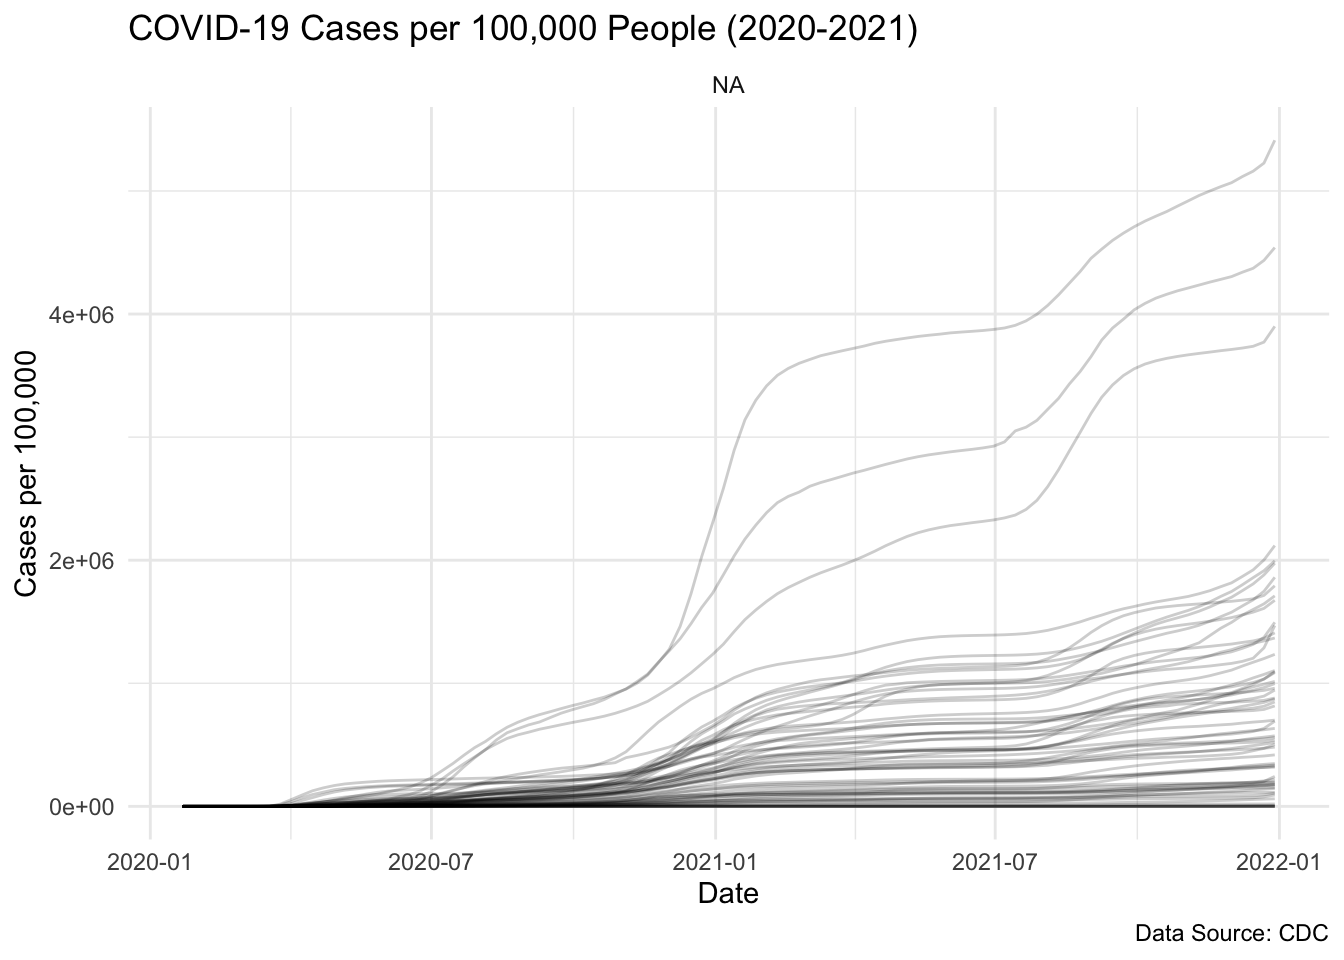
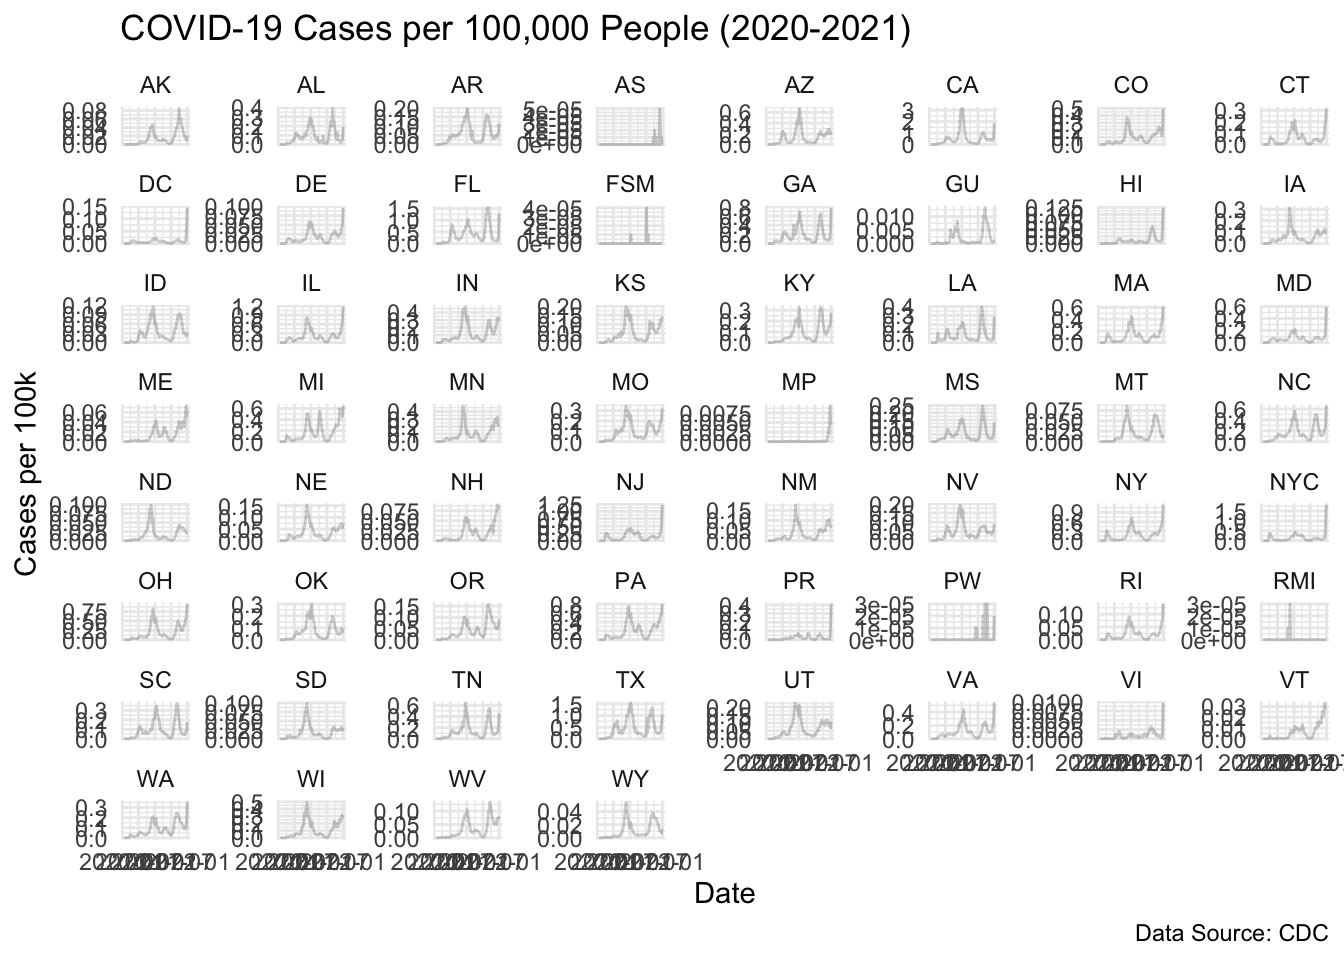
Update p3 with latest changes

diff --git a/p3/pset-03-wrangling.html b/p3/pset-03-wrangling.html
@@ -1092,14 +1092,14 @@ Attaching package: 'jsonlite'</code></pre>
 <div class="cell">
 <div class="sourceCode cell-code" id="cb33"><pre class="sourceCode r code-with-copy"><code class="sourceCode r"><span id="cb33-1"><a href="#cb33-1" aria-hidden="true" tabindex="-1"></a>api <span class="ot">&lt;-</span> <span class="st">"https://data.cdc.gov/resource/pwn4-m3yp.json"</span></span>
 <span id="cb33-2"><a href="#cb33-2" aria-hidden="true" tabindex="-1"></a>response <span class="ot">&lt;-</span> <span class="fu">request</span>(api) <span class="sc">|&gt;</span> </span>
-<span id="cb33-3"><a href="#cb33-3" aria-hidden="true" tabindex="-1"></a>  <span class="fu">req_url_query</span>(<span class="st">`</span><span class="at">$limit</span><span class="st">`</span> <span class="ot">=</span> <span class="dv">100000</span>) <span class="sc">|&gt;</span></span>
+<span id="cb33-3"><a href="#cb33-3" aria-hidden="true" tabindex="-1"></a>  <span class="fu">req_url_query</span>(<span class="st">`</span><span class="at">$limit</span><span class="st">`</span> <span class="ot">=</span> <span class="dv">10000000000</span>) <span class="sc">|&gt;</span></span>
 <span id="cb33-4"><a href="#cb33-4" aria-hidden="true" tabindex="-1"></a>  <span class="fu">req_perform</span>() <span class="sc">|&gt;</span> </span>
 <span id="cb33-5"><a href="#cb33-5" aria-hidden="true" tabindex="-1"></a>  <span class="fu">resp_body_json</span>(<span class="at">simplifyVector =</span> <span class="cn">TRUE</span>)</span>
 <span id="cb33-6"><a href="#cb33-6" aria-hidden="true" tabindex="-1"></a></span>
 <span id="cb33-7"><a href="#cb33-7" aria-hidden="true" tabindex="-1"></a>cases_raw <span class="ot">&lt;-</span> <span class="fu">as_tibble</span>(response) <span class="sc">|&gt;</span> </span>
-<span id="cb33-8"><a href="#cb33-8" aria-hidden="true" tabindex="-1"></a>  <span class="fu">select</span>(state, end_date, tot_cases) <span class="sc">|&gt;</span></span>
+<span id="cb33-8"><a href="#cb33-8" aria-hidden="true" tabindex="-1"></a>  <span class="fu">select</span>(state, end_date, new_cases) <span class="sc">|&gt;</span></span>
 <span id="cb33-9"><a href="#cb33-9" aria-hidden="true" tabindex="-1"></a>  <span class="fu">mutate</span>(</span>
-<span id="cb33-10"><a href="#cb33-10" aria-hidden="true" tabindex="-1"></a>    <span class="at">cases =</span> <span class="fu">as.numeric</span>(tot_cases),</span>
+<span id="cb33-10"><a href="#cb33-10" aria-hidden="true" tabindex="-1"></a>    <span class="at">cases =</span> <span class="fu">as.numeric</span>(new_cases),</span>
 <span id="cb33-11"><a href="#cb33-11" aria-hidden="true" tabindex="-1"></a>    <span class="at">date =</span> <span class="fu">as.Date</span>(end_date)</span>
 <span id="cb33-12"><a href="#cb33-12" aria-hidden="true" tabindex="-1"></a>  ) <span class="sc">|&gt;</span> </span>
 <span id="cb33-13"><a href="#cb33-13" aria-hidden="true" tabindex="-1"></a>  <span class="fu">select</span>(state, date, cases) </span>
@@ -1107,34 +1107,33 @@ Attaching package: 'jsonlite'</code></pre>
 <span id="cb33-15"><a href="#cb33-15" aria-hidden="true" tabindex="-1"></a><span class="fu">print</span>(<span class="fu">head</span>(cases_raw))</span></code><button title="Copy to Clipboard" class="code-copy-button"><i class="bi"></i></button></pre></div>
 <div class="cell-output cell-output-stdout">
 <pre><code># A tibble: 6 × 3
-  state date         cases
-  &lt;chr&gt; &lt;date&gt;       &lt;dbl&gt;
-1 AZ    2023-02-22 2434631
-2 LA    2022-12-21 1507707
-3 GA    2023-02-22 3061141
-4 LA    2023-03-29 1588259
-5 LA    2023-02-01 1548508
-6 LA    2023-03-22 1580709</code></pre>
+  state date       cases
+  &lt;chr&gt; &lt;date&gt;     &lt;dbl&gt;
+1 AZ    2023-02-22  3716
+2 LA    2022-12-21  4041
+3 GA    2023-02-22  5298
+4 LA    2023-03-29  2203
+5 LA    2023-02-01  5725
+6 LA    2023-03-22  1961</code></pre>
 </div>
 </div>
 <ol start="12" type="1">
 <li>(1 point) For 2020 and 2021, make a time series plot of cases per 100,000 versus time for each state. Stratify the plot by region name and make a separate line plot for each state. Don’t use colors for this plot, but set <code>alpha = 0.2</code> to make the plots more easily visable. Make sure to label your graph appropriately.</li>
 </ol>
 <div class="cell">
-<div class="sourceCode cell-code" id="cb35"><pre class="sourceCode r code-with-copy"><code class="sourceCode r"><span id="cb35-1"><a href="#cb35-1" aria-hidden="true" tabindex="-1"></a>cases_filtered <span class="ot">&lt;-</span> cases_raw <span class="sc">|&gt;</span> </span>
-<span id="cb35-2"><a href="#cb35-2" aria-hidden="true" tabindex="-1"></a>  <span class="fu">filter</span>(<span class="fu">year</span>(date) <span class="sc">%in%</span> <span class="fu">c</span>(<span class="dv">2020</span>, <span class="dv">2021</span>)) <span class="sc">|&gt;</span></span>
-<span id="cb35-3"><a href="#cb35-3" aria-hidden="true" tabindex="-1"></a>  <span class="fu">mutate</span>(<span class="at">state_name =</span> state)</span>
-<span id="cb35-4"><a href="#cb35-4" aria-hidden="true" tabindex="-1"></a>cases_filtered <span class="ot">&lt;-</span> cases_filtered <span class="sc">|&gt;</span> </span>
-<span id="cb35-5"><a href="#cb35-5" aria-hidden="true" tabindex="-1"></a>  <span class="fu">left_join</span>(regions, <span class="at">by =</span> <span class="st">"state_name"</span>)</span>
-<span id="cb35-6"><a href="#cb35-6" aria-hidden="true" tabindex="-1"></a></span>
-<span id="cb35-7"><a href="#cb35-7" aria-hidden="true" tabindex="-1"></a><span class="fu">ggplot</span>(cases_filtered, <span class="fu">aes</span>(<span class="at">x =</span> date, <span class="at">y =</span> cases, <span class="at">group =</span> state)) <span class="sc">+</span></span>
-<span id="cb35-8"><a href="#cb35-8" aria-hidden="true" tabindex="-1"></a>  <span class="fu">geom_line</span>(<span class="at">alpha =</span> <span class="fl">0.2</span>) <span class="sc">+</span> </span>
-<span id="cb35-9"><a href="#cb35-9" aria-hidden="true" tabindex="-1"></a>  <span class="fu">facet_wrap</span>(<span class="sc">~</span> region_name, <span class="at">scales =</span> <span class="st">"free_y"</span>) <span class="sc">+</span> </span>
-<span id="cb35-10"><a href="#cb35-10" aria-hidden="true" tabindex="-1"></a>  <span class="fu">labs</span>(<span class="at">title =</span> <span class="st">"COVID-19 Cases per 100,000 People (2020-2021)"</span>,</span>
-<span id="cb35-11"><a href="#cb35-11" aria-hidden="true" tabindex="-1"></a>       <span class="at">x =</span> <span class="st">"Date"</span>,</span>
-<span id="cb35-12"><a href="#cb35-12" aria-hidden="true" tabindex="-1"></a>       <span class="at">y =</span> <span class="st">"Cases per 100,000"</span>,</span>
-<span id="cb35-13"><a href="#cb35-13" aria-hidden="true" tabindex="-1"></a>       <span class="at">caption =</span> <span class="st">"Data Source: CDC"</span>) <span class="sc">+</span></span>
-<span id="cb35-14"><a href="#cb35-14" aria-hidden="true" tabindex="-1"></a>  <span class="fu">theme_minimal</span>()</span></code><button title="Copy to Clipboard" class="code-copy-button"><i class="bi"></i></button></pre></div>
+<div class="sourceCode cell-code" id="cb35"><pre class="sourceCode r code-with-copy"><code class="sourceCode r"><span id="cb35-1"><a href="#cb35-1" aria-hidden="true" tabindex="-1"></a>cases_filtered <span class="ot">&lt;-</span> cases_raw <span class="sc">|&gt;</span></span>
+<span id="cb35-2"><a href="#cb35-2" aria-hidden="true" tabindex="-1"></a>  <span class="fu">filter</span>(date <span class="sc">&gt;=</span> <span class="fu">as.Date</span>(<span class="st">"2020-01-01"</span>) <span class="sc">&amp;</span> date <span class="sc">&lt;=</span> <span class="fu">as.Date</span>(<span class="st">"2021-12-31"</span>))</span>
+<span id="cb35-3"><a href="#cb35-3" aria-hidden="true" tabindex="-1"></a></span>
+<span id="cb35-4"><a href="#cb35-4" aria-hidden="true" tabindex="-1"></a><span class="fu">ggplot</span>(cases_filtered, <span class="fu">aes</span>(<span class="at">x =</span> date, <span class="at">y =</span> cases<span class="sc">/</span><span class="dv">100000</span>, <span class="at">group =</span> state)) <span class="sc">+</span></span>
+<span id="cb35-5"><a href="#cb35-5" aria-hidden="true" tabindex="-1"></a>  <span class="fu">geom_line</span>(<span class="at">alpha =</span> <span class="fl">0.2</span>) <span class="sc">+</span></span>
+<span id="cb35-6"><a href="#cb35-6" aria-hidden="true" tabindex="-1"></a>  <span class="fu">facet_wrap</span>(<span class="sc">~</span> state, <span class="at">scales =</span> <span class="st">"free_y"</span>) <span class="sc">+</span></span>
+<span id="cb35-7"><a href="#cb35-7" aria-hidden="true" tabindex="-1"></a>  <span class="fu">labs</span>(</span>
+<span id="cb35-8"><a href="#cb35-8" aria-hidden="true" tabindex="-1"></a>    <span class="at">title =</span> <span class="st">"COVID-19 Cases per 100,000 People (2020-2021)"</span>,</span>
+<span id="cb35-9"><a href="#cb35-9" aria-hidden="true" tabindex="-1"></a>    <span class="at">x =</span> <span class="st">"Date"</span>,</span>
+<span id="cb35-10"><a href="#cb35-10" aria-hidden="true" tabindex="-1"></a>    <span class="at">y =</span> <span class="st">"Cases per 100k"</span>,</span>
+<span id="cb35-11"><a href="#cb35-11" aria-hidden="true" tabindex="-1"></a>    <span class="at">caption =</span> <span class="st">"Data Source: CDC"</span></span>
+<span id="cb35-12"><a href="#cb35-12" aria-hidden="true" tabindex="-1"></a>  ) <span class="sc">+</span></span>
+<span id="cb35-13"><a href="#cb35-13" aria-hidden="true" tabindex="-1"></a>  <span class="fu">theme_minimal</span>()</span></code><button title="Copy to Clipboard" class="code-copy-button"><i class="bi"></i></button></pre></div>
 <div class="cell-output-display">
 <div>
 <figure class="figure">
